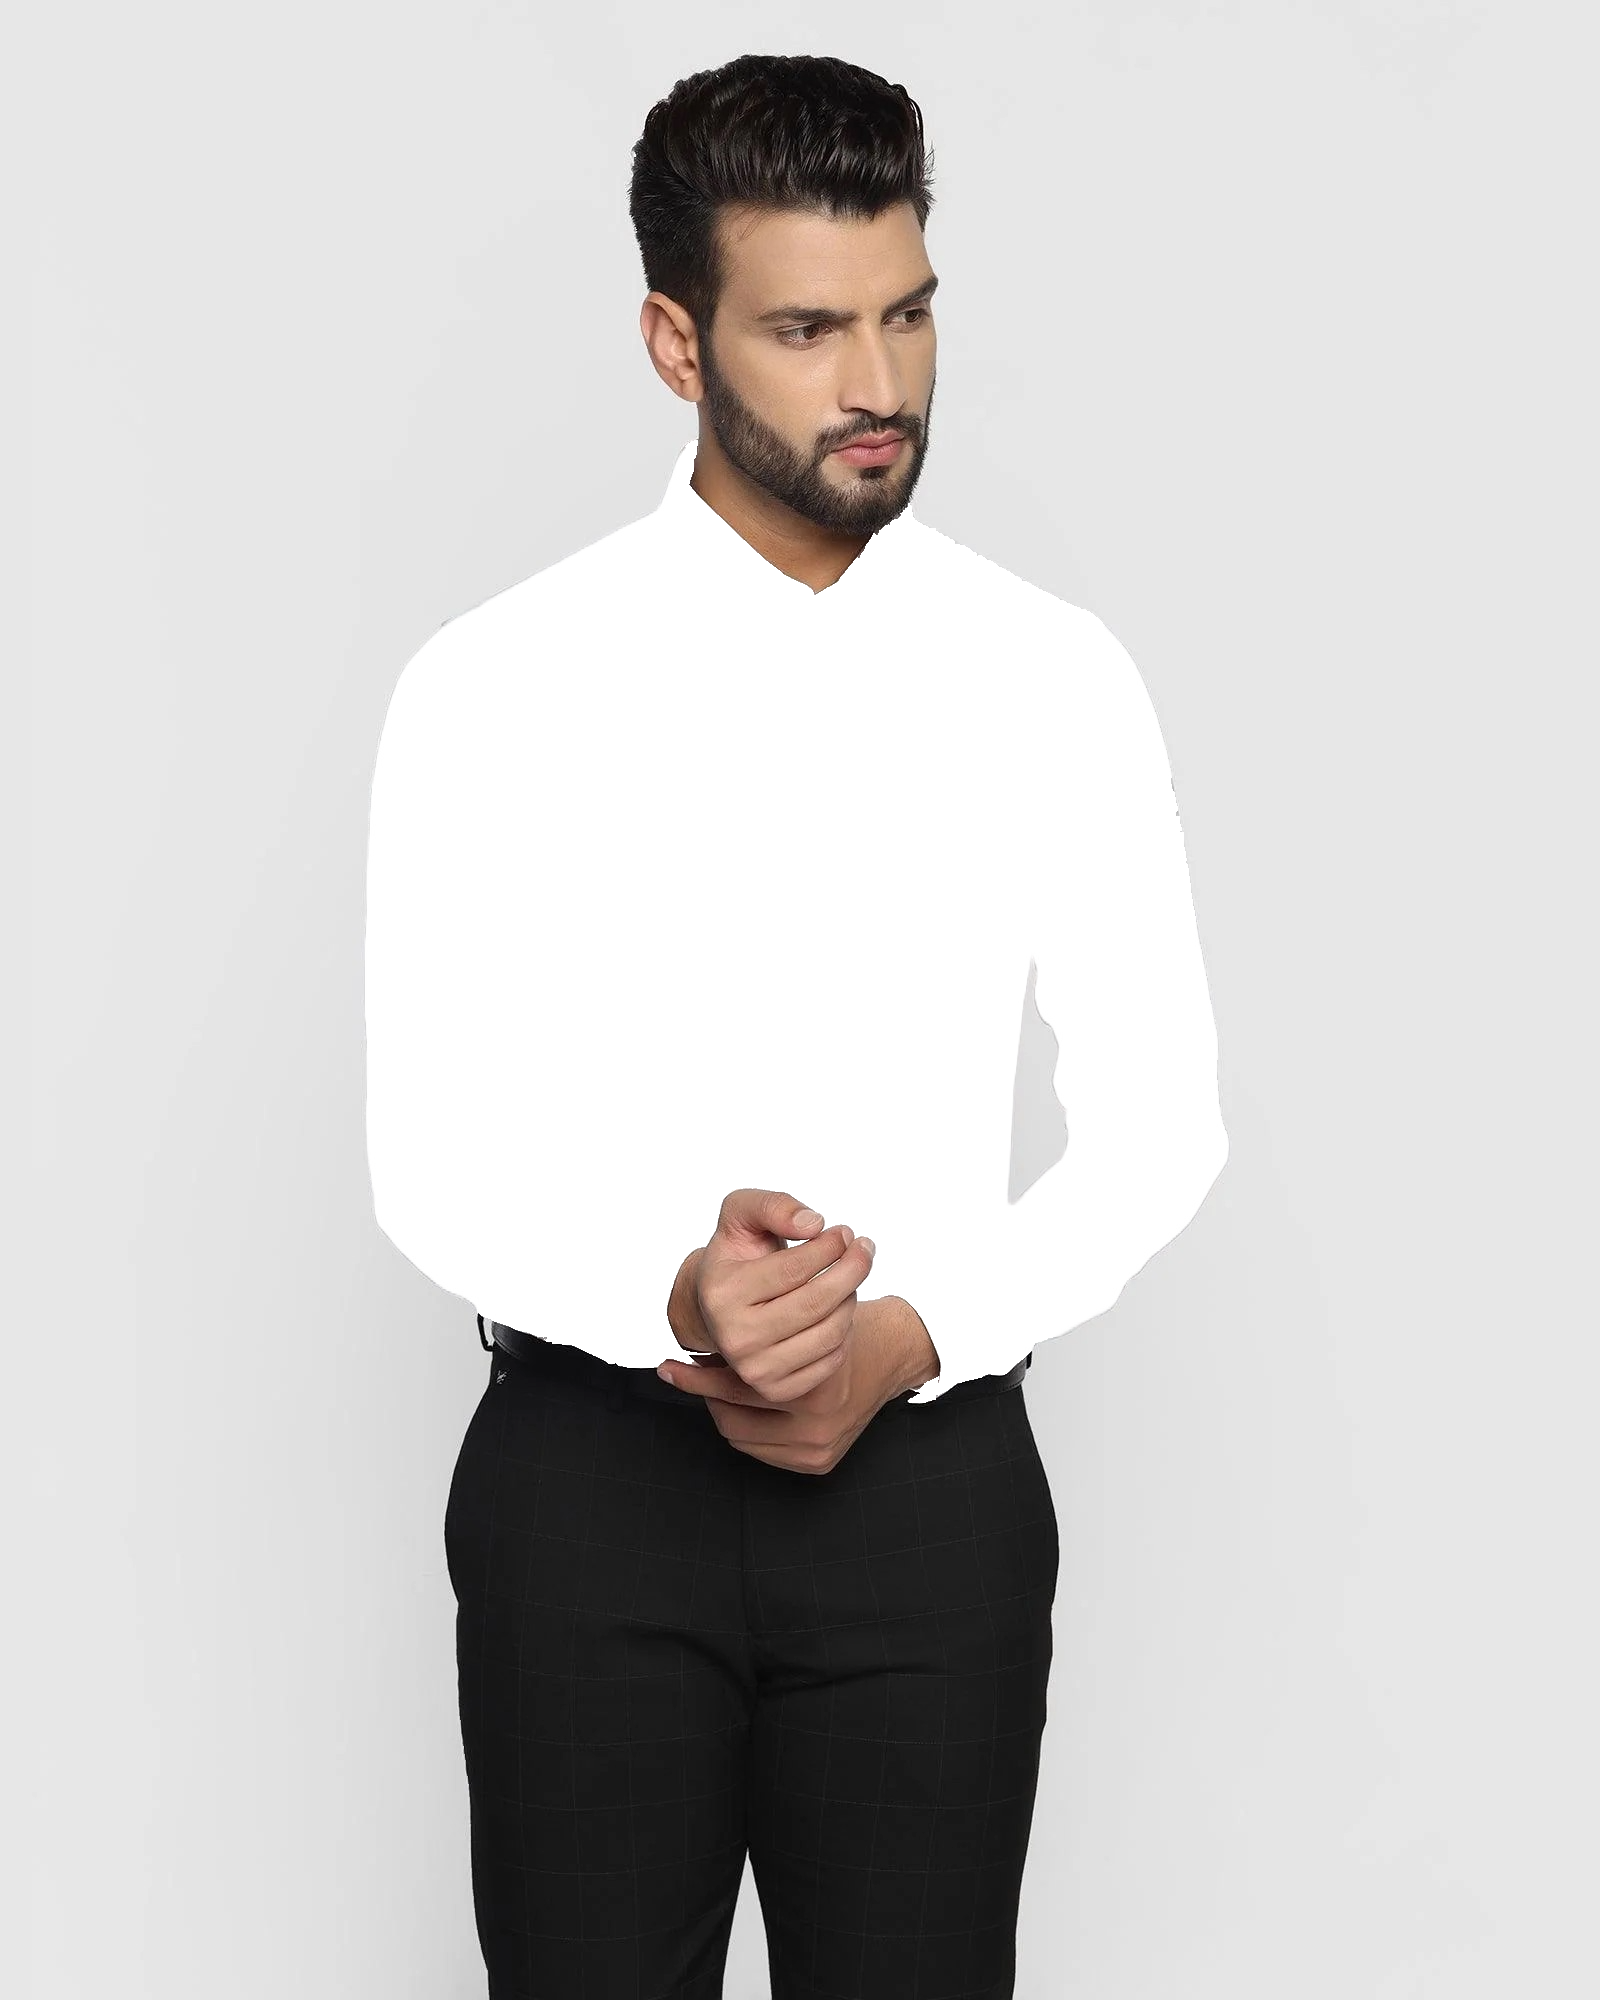
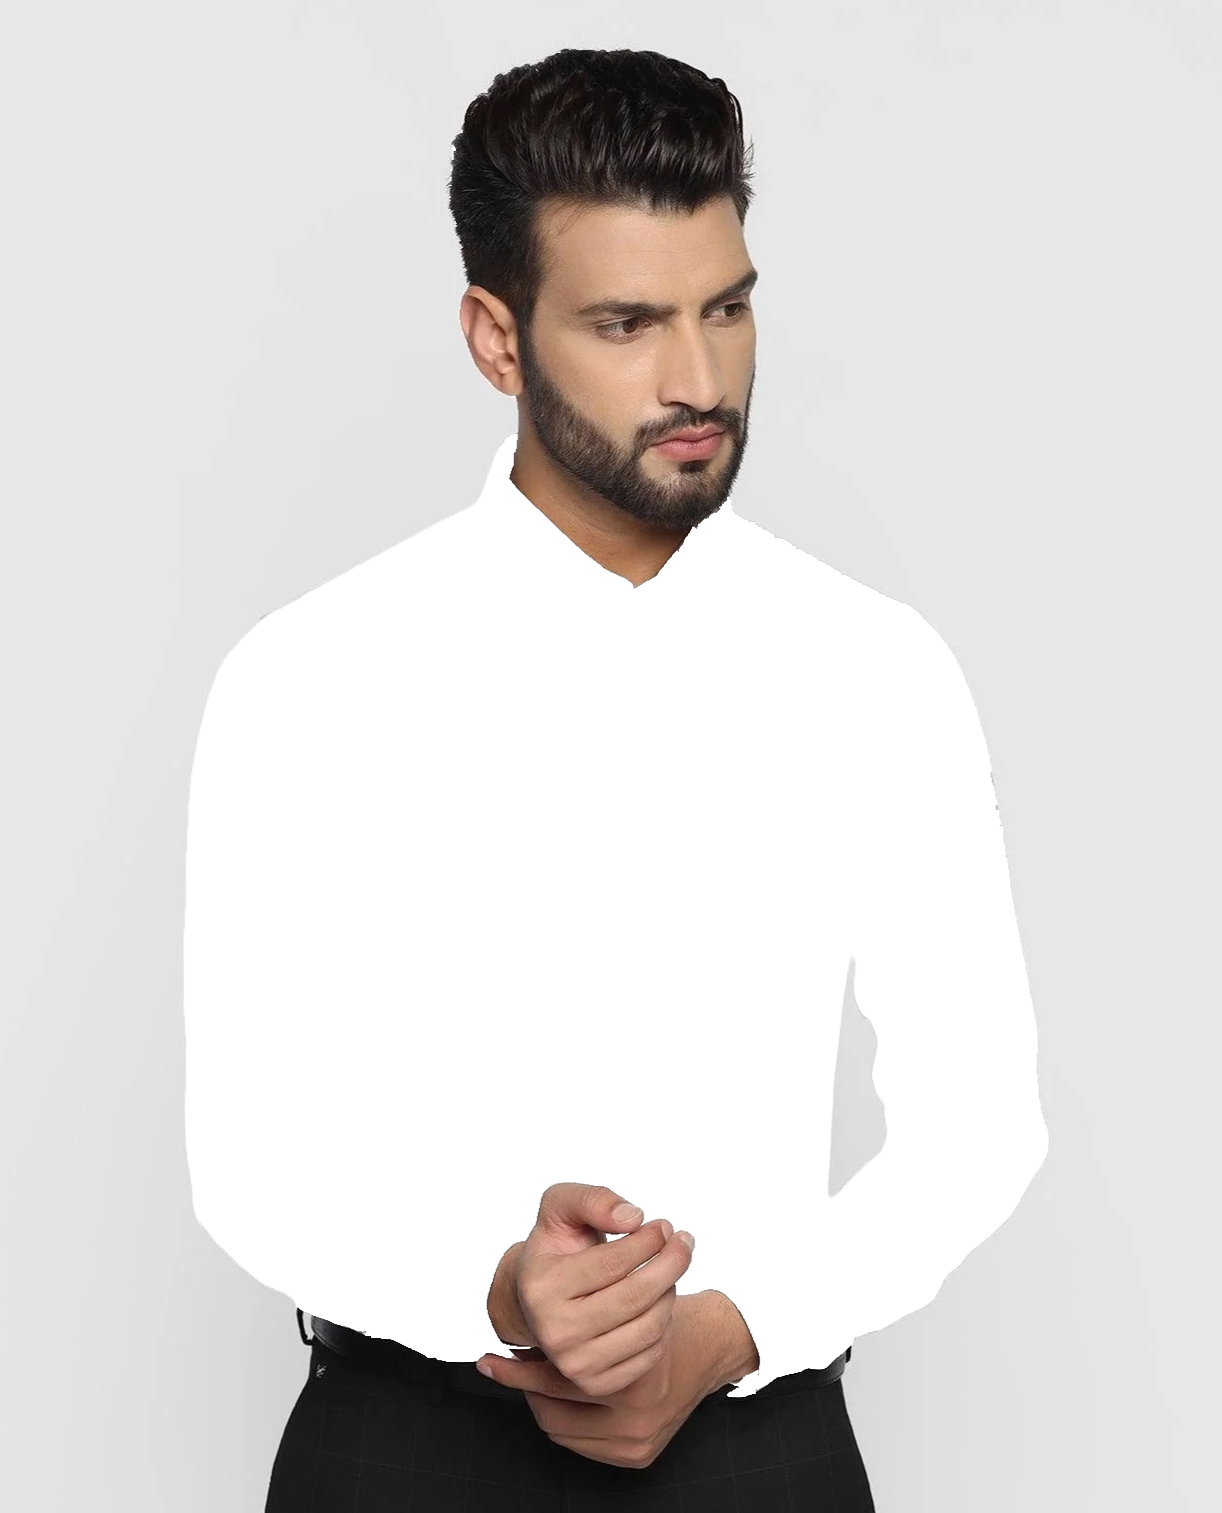
change

Changed region(s): [[0.1244, 0.0, 0.8707, 1.0], [0.6219, 0.497, 0.6841, 0.6213]]

diff --git a/src/components/Shirt.js b/src/components/Shirt.js
@@ -1,8 +1,8 @@
-import React, { useState, useRef } from 'react';
+import React, { useState, useRef, useEffect } from 'react';
 import shirtOriginal from '../assets/OnlyShirtOriginal.png';
 import shirtBg from '../assets/OnlyShirtBg.png';
-import personWithShirt from '../assets/shirtO_.png';
-import personWithShirtBg from '../assets/shirtB.png';
+import personWithShirt from '../assets/shirt.png';
+import personWithShirtBg from '../assets/ShirtBg.png';
 import BlackPant from '../assets/BlackPant.png';
 import BlackPantBg from '../assets/BlackPantBg.png';
 import BlackShirt from '../assets/BlackShirt.png';
@@ -109,13 +109,17 @@ function Shirt() {
     backgroundSize: 'cover',
     backgroundRepeat: 'no-repeat',
   };
+  const imgRef = useRef(null);
 
+  
   return (
     
     <div className="App">
       <div className="product">
         <div className="img-container">
-          <img src={selectedImage.original} className="img-1" alt="Shirt base" />
+          <img  src={selectedImage.original} className="img-1" alt="Shirt base" />
+          {/* <img src={selectedImage.original} ref={imgRef} className="img-1" alt="Shirt base" /> */}
+
           <div className="color" style={{ backgroundColor: color }}></div>
           <div className="texture" style={textureStyle}></div>
         </div>

diff --git a/src/components/Shirt.css b/src/components/Shirt.css
@@ -29,4 +29,17 @@
     height: 150%;
     mix-blend-mode: multiply;
   }
-  
+  * {box-sizing: border-box;}
+
+.img-container {
+  position:relative;
+}
+
+.img-magnifier-glass {
+  position: absolute;
+  border: 3px solid #000;
+  border-radius: 50%;
+  cursor: none;
+  width: 100px;
+  height: 100px;
+}
